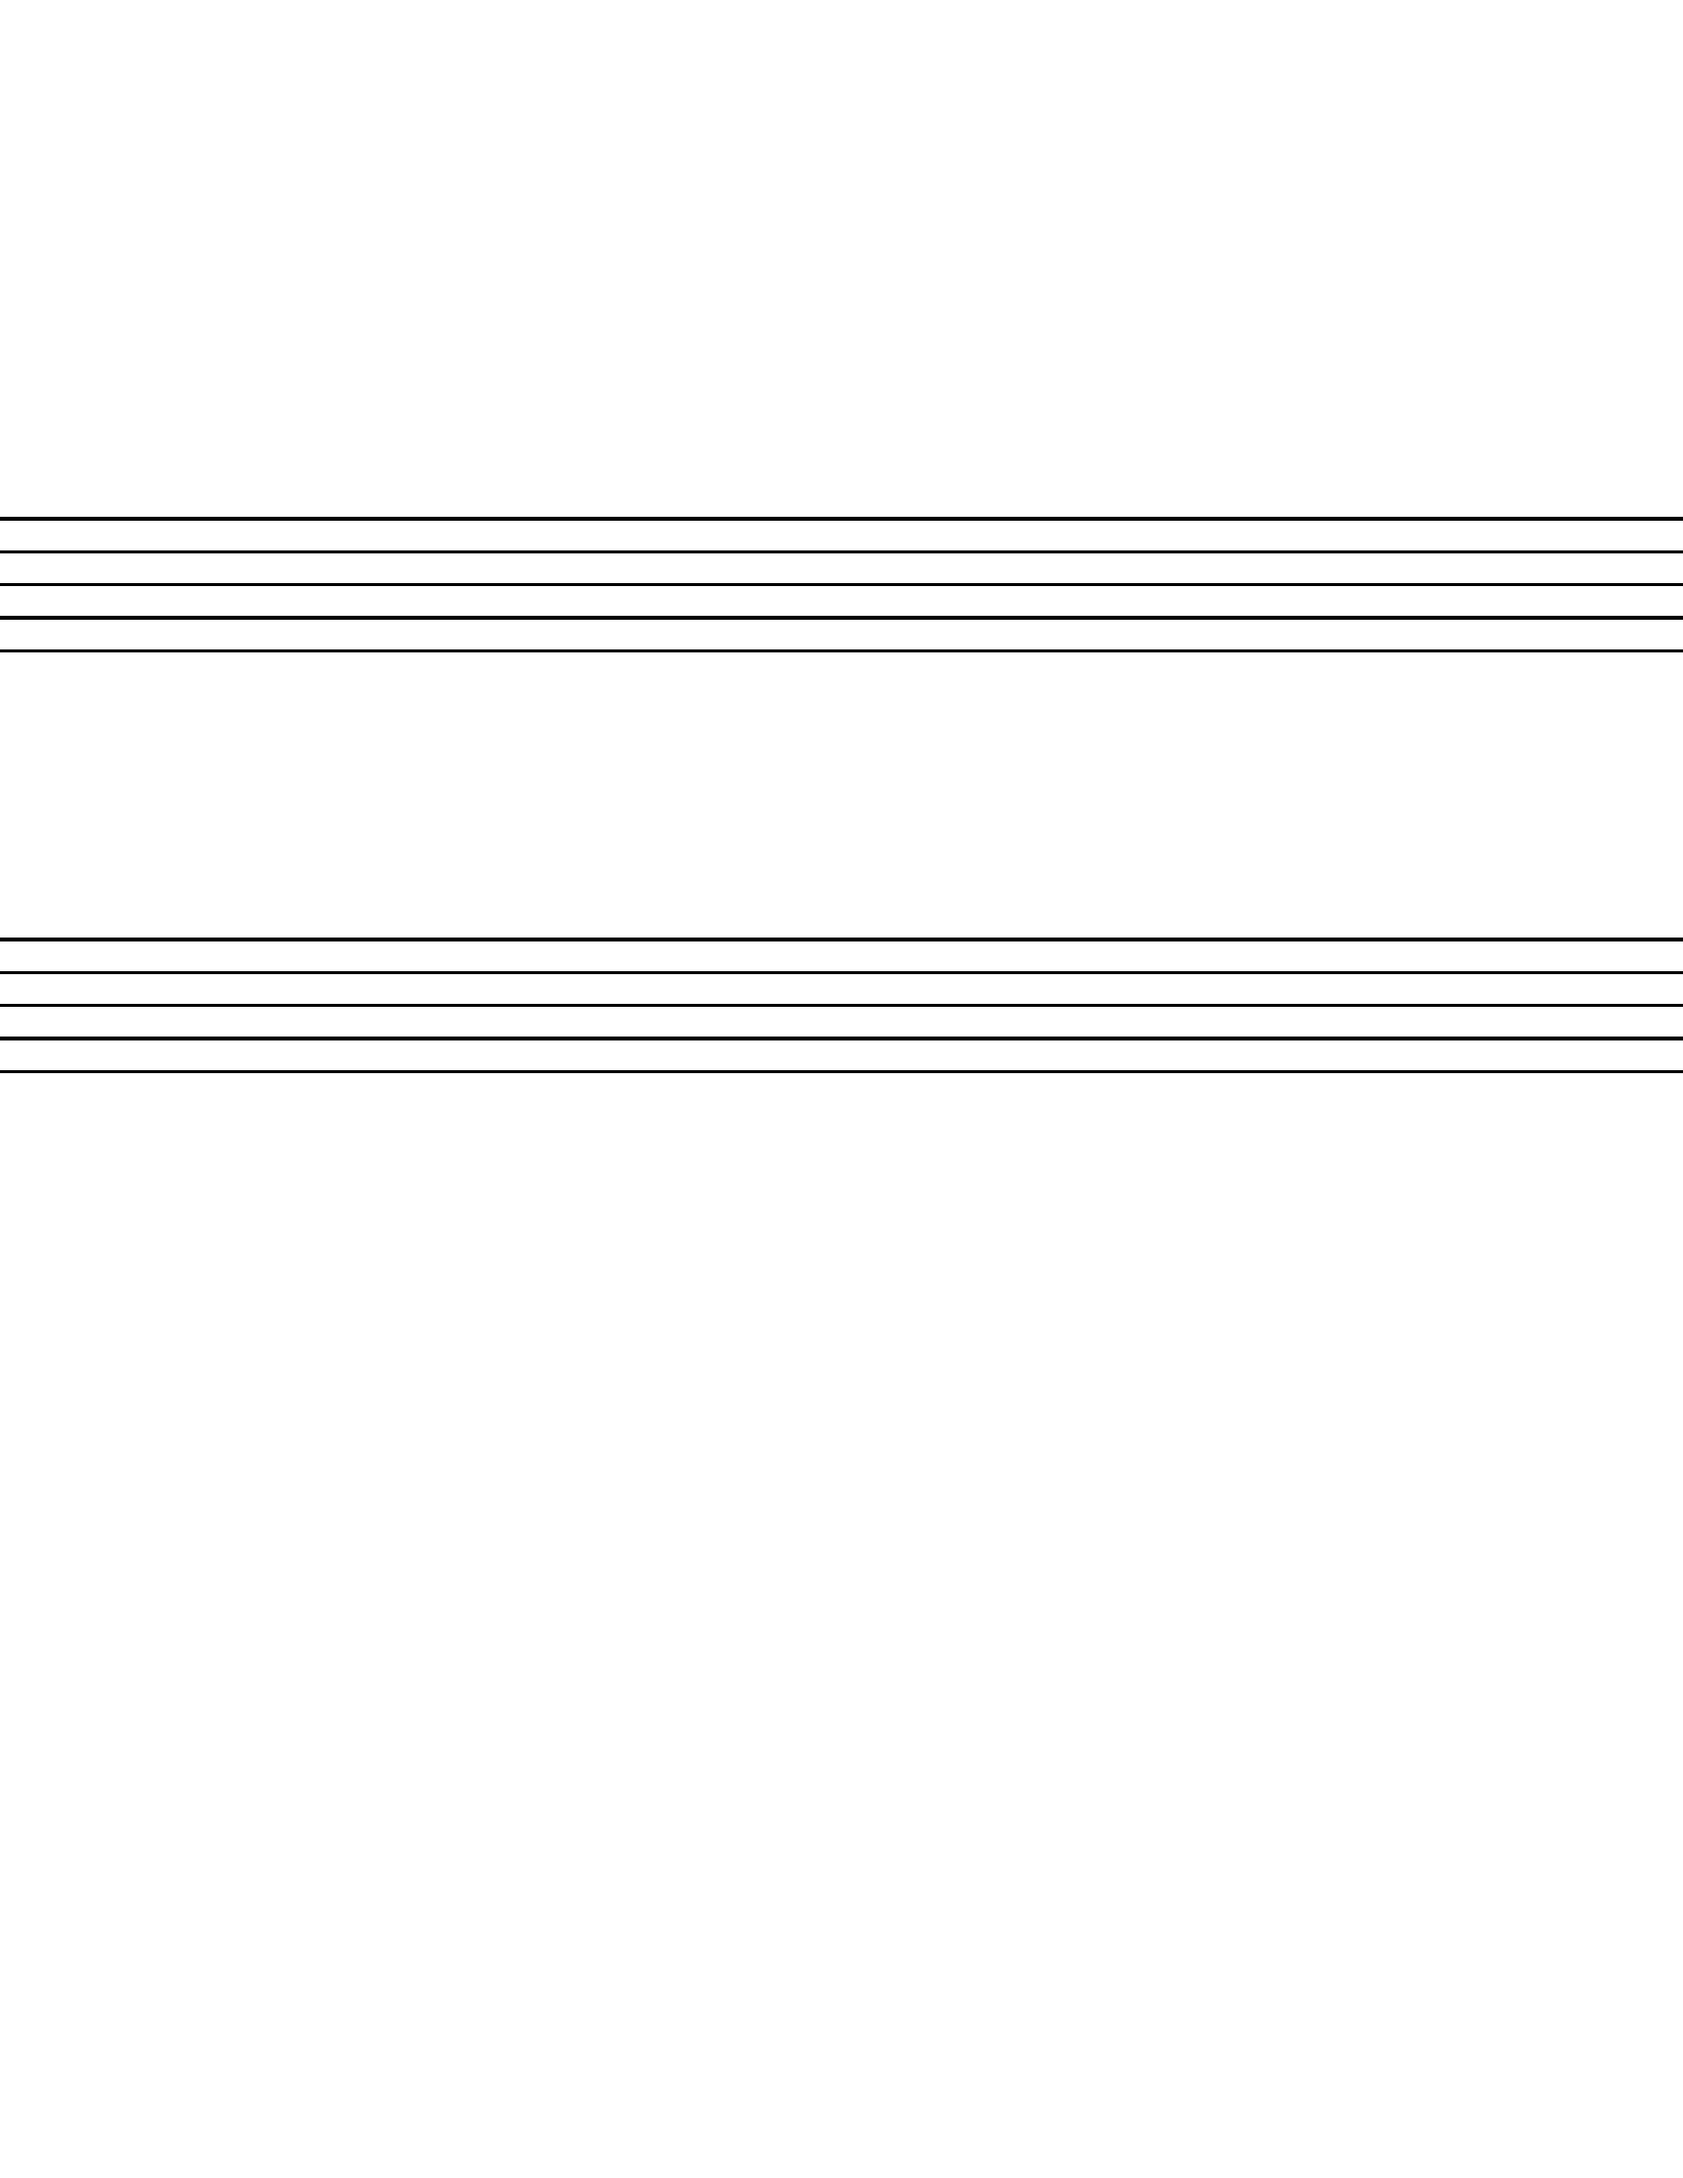
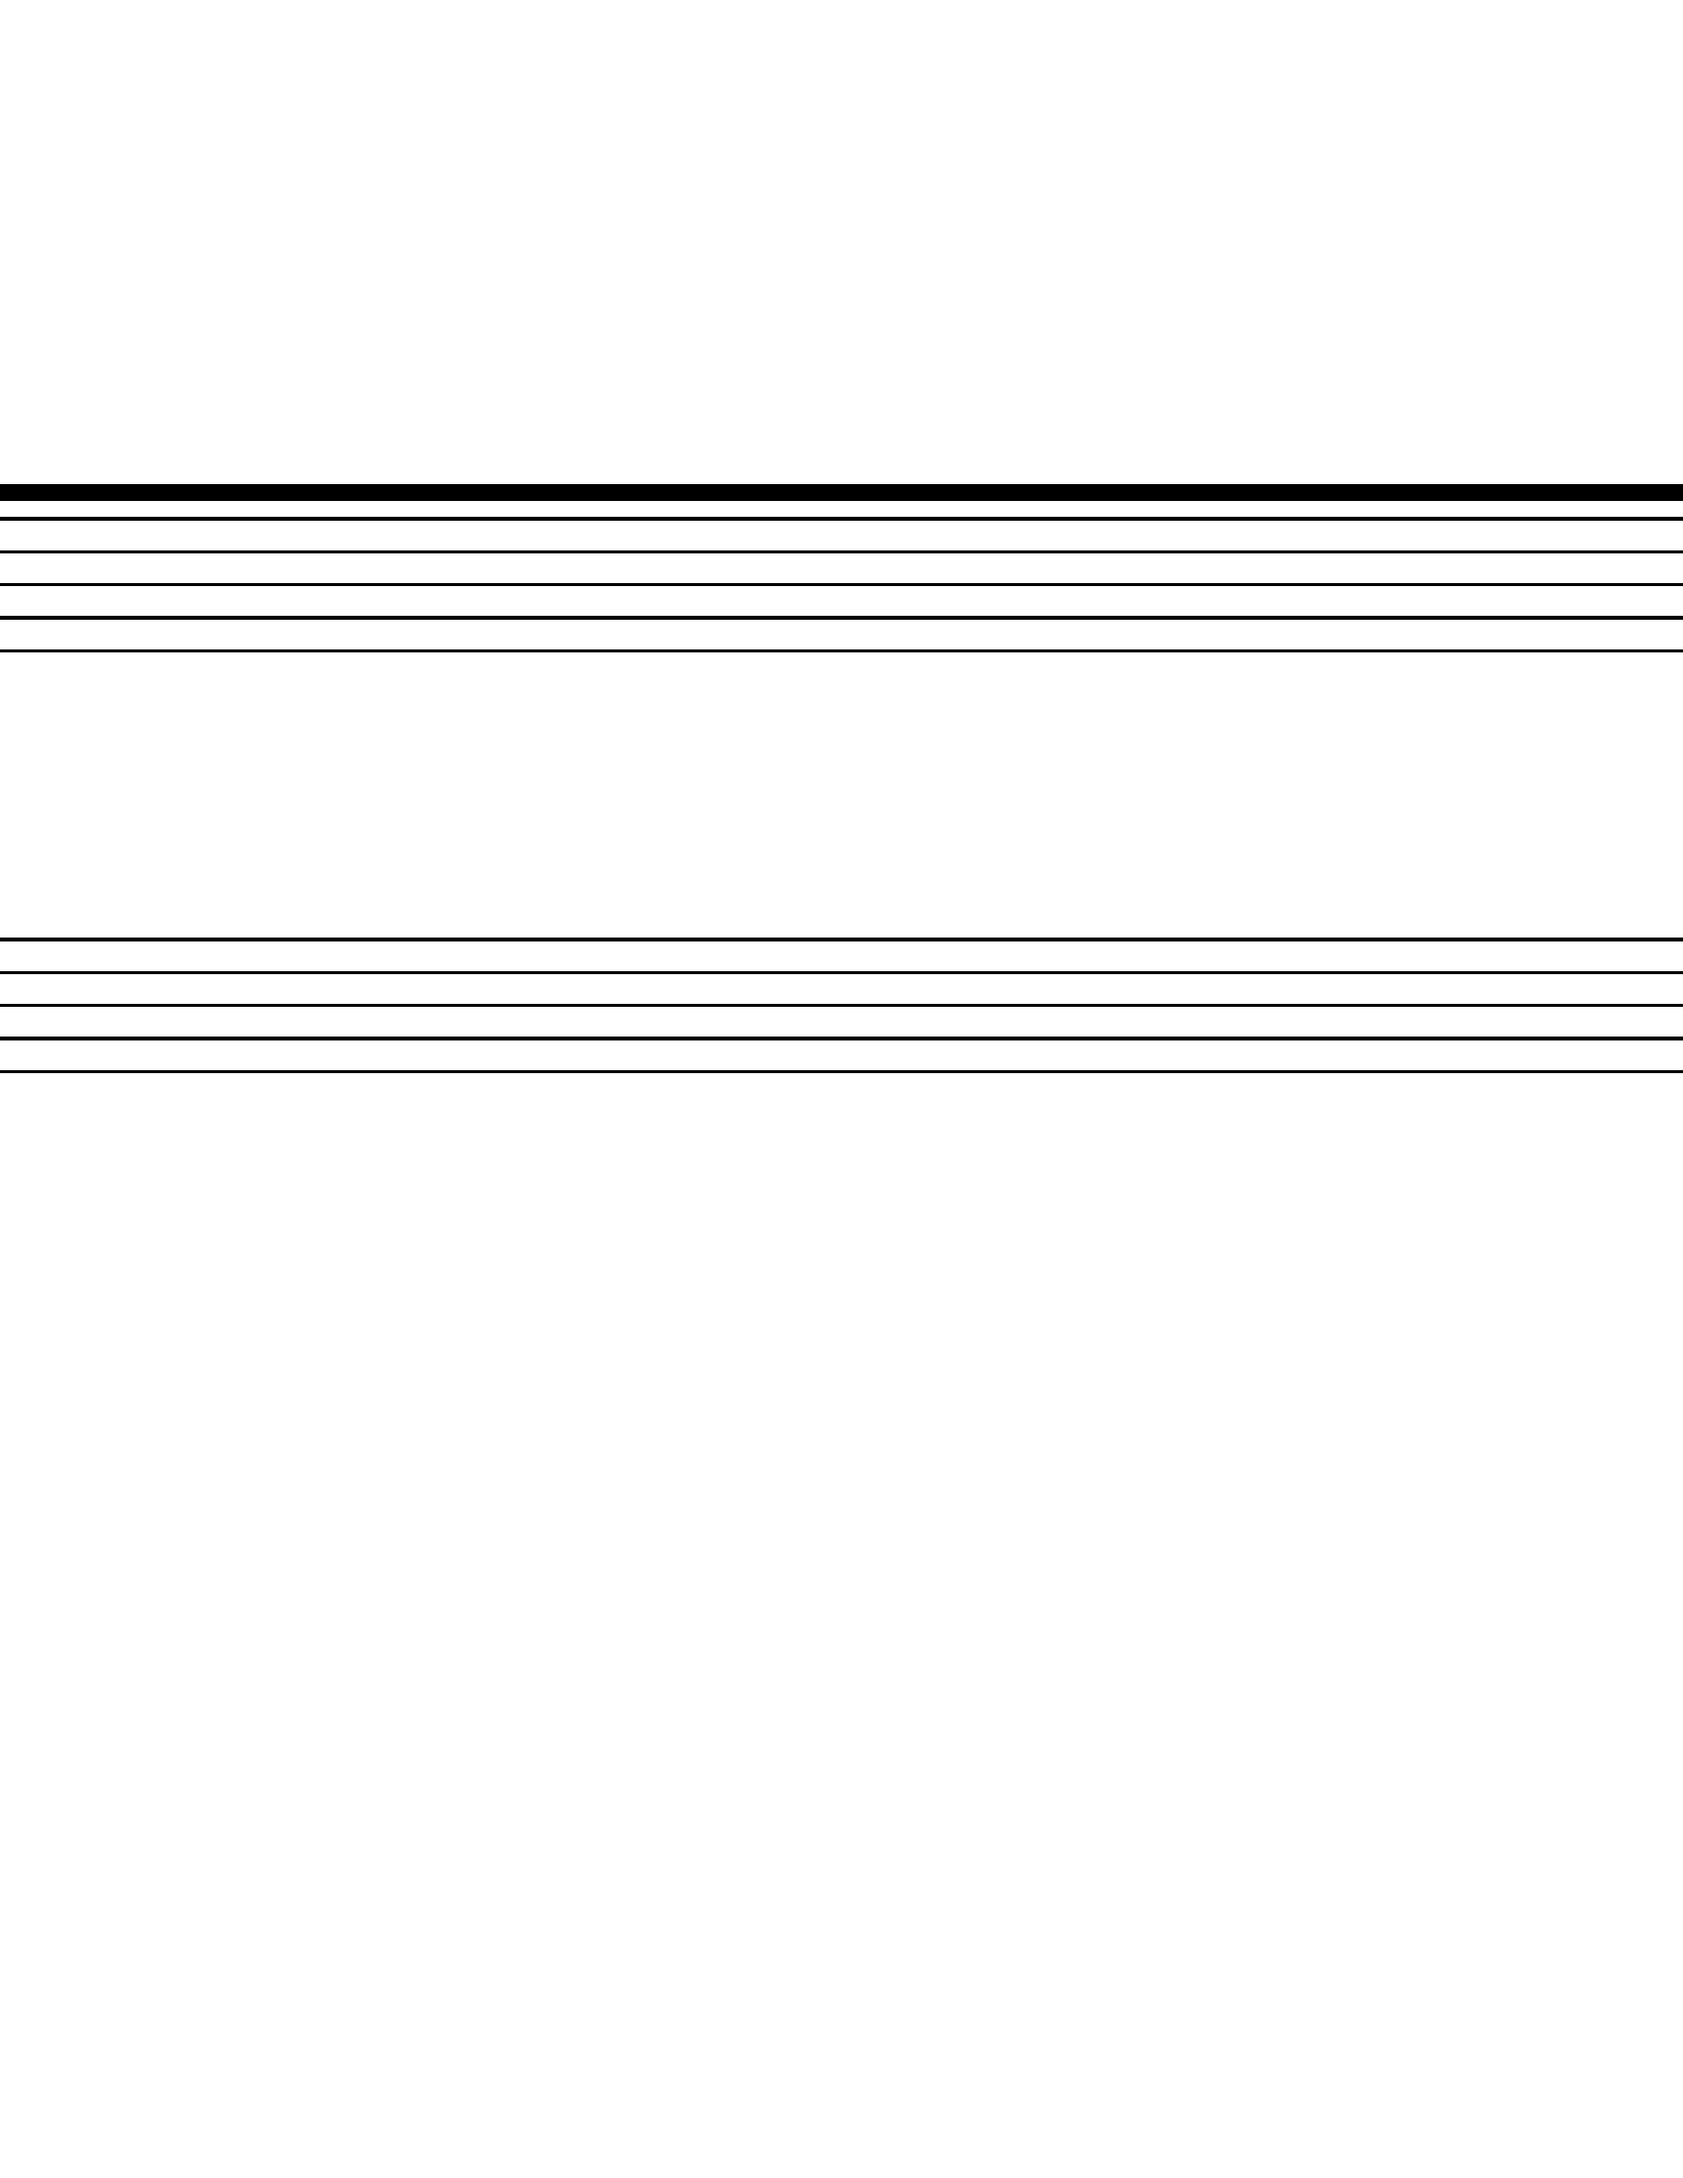
fix: Fix horizontal projection

Changed region(s): [[0.0, 0.2164, 1.0, 0.2473]]

diff --git a/src/stuff_region_segmentation.py b/src/stuff_region_segmentation.py
@@ -20,7 +20,11 @@ def binary_transform(image):
         binary_image (array): La imagen transformada binariamente.
     '''
     _, binary_image = cv2.threshold(image, BINARY_TRANFORM_THRESHOLD, 255, cv2.THRESH_BINARY)
-    return binary_image[:,:,1]
+    
+    if len(binary_image.shape) > 2:
+        return binary_image[:,:,0]
+    else:
+        return binary_image
 
 
 def horizontal_projection(image):
@@ -31,43 +35,58 @@ def horizontal_projection(image):
         image (array): Una matriz que representa la imagen de entrada en escala de grises.
 
     Salidas:
-        array: Un array que contiene el histograma de proyección horizontal.
+        horizontal_sum (array): Un vector que contiene el histograma de proyección horizontal.
+    '''
+    normalized_image = image/255
+    horizontal_sum = np.sum(normalized_image, axis=1)                                              # Calcula la suma horizontal de los píxeles en la imagen
+
+    return horizontal_sum
+
+def get_histogram_image(image, hist):
+    '''
+    Calcula la imagen del histograma de proyección horizontal de una imagen dada.
+
+    Parámetros:
+        image (array): Una matriz que representa la imagen de entrada en escala de grises.
+        hist (array): Un vector que representa el histograma de proyección horizontal.
+
+    Salidas:
+        horizontal_image (array): Una matriz que contiene la imagen del histograma de proyección horizontal.
     '''
     height, width = image.shape[:2]                                                     # Obtiene las dimensiones de la imagen
-    horizontal_sum = np.sum(image, axis=1)                                              # Calcula la suma horizontal de los píxeles en la imagen
-    max_value = np.max(horizontal_sum)                                                  # Encuentra el valor máximo de la suma horizontal
+    max_value = np.max(hist)                                                            # Encuentra el valor máximo de la suma horizontal
     
     if max_value == 0:                                                                  # Si la suma máxima es cero, devuelve una matriz de ceros con las mismas dimensiones que la imagen original
         return np.zeros((height, width), dtype=np.uint8)
 
-    horizontal_sum_normalized = (horizontal_sum / max_value) * (width - 1)              # Normaliza la suma horizontal
+    horizontal_sum_normalized = (hist / max_value) * (width - 1)                        # Normaliza la suma horizontal
     horizontal_image = np.zeros((height, width), dtype=np.uint8)                        # Crea una matriz de ceros con las mismas dimensiones que la imagen original
     
-    for y, value in enumerate(horizontal_sum_normalized):                              # Itera sobre la suma horizontal para dibujar las líneas de la proyección horizontal
+    for y, value in enumerate(horizontal_sum_normalized):                               # Itera sobre la suma horizontal para dibujar las líneas de la proyección horizontal
         if np.isscalar(value):
             value = int(value)
         else:
             value = int(value[0])
-        cv2.line(horizontal_image, (width - value - 1, y), (width, y), 255, 1)     # El -1 es para que no se dibuje una línea en la primera columna de la imagen
+        cv2.line(horizontal_image, (width - value - 1, y), (width, y), 255, 1)          # El -1 es para que no se dibuje una línea en la primera columna de la imagen
 
     return horizontal_image
 
-
-def region_segmentation(image):
+def region_segmentation(image, hist):
     '''
     Realiza la segmentación de regiones para detectar las líneas de las partituras en una imagen binaria.
 
     Parámetros:
         image (array): Una histograma de proyección horizontal.
+        hist (array): Un vector que representa el histograma de proyección horizontal.
 
     Salidas:
         staff_lines: Un array que contiene las líneas de las partituras sin notas ni otros símbolos.
     '''
-    threshold = round(image.shape[1] * REGION_SEGMENTATION_RATIO)       # Calcula el pixel umbral para la segmentación de regiones
-    staff_lines = np.zeros_like(image)                                  # Crea una matriz de ceros con las mismas dimensiones que la imagen original
-    
+    staff_lines = np.zeros_like(image)
+    threshold = int(np.max(hist)*REGION_SEGMENTATION_RATIO)
+
     for y in range(image.shape[0]):                                     # Itera sobre las filas de la imagen
-        if image[y, threshold] == 255:                                  # Si el píxel en la posición (threshold, y) es blanco, no dibujar linea
+        if hist[y] >= threshold:                                  # Si el píxel en la posición (threshold, y) es blanco, no dibujar linea
             staff_lines[y, :] = 255
         else:                                                           # Si el píxel en la posición (threshold, y) es negro, dibujar linea
             staff_lines[y, :] = 0

diff --git a/src/test.py b/src/test.py
@@ -16,10 +16,11 @@ def test_project(image_path):
     print('\nBinary image succesfully created and saved')
 
     horizontal_sum = stuff_region_segmentation.horizontal_projection(binary_image)
-    cv2.imwrite('testing/01_horizontal_projection_result.png', horizontal_sum)
+    hist_image = stuff_region_segmentation.get_histogram_image(binary_image, horizontal_sum)
+    cv2.imwrite('testing/01_horizontal_projection_result.png', hist_image)
     print('\nHorizontal sum succesfully created and saved')
 
-    staff_lines = stuff_region_segmentation.region_segmentation(horizontal_sum)
+    staff_lines = stuff_region_segmentation.region_segmentation(binary_image, horizontal_sum)
     cv2.imwrite('testing/02_region_segmentation_result.png', staff_lines)
     print('\nRegion segmentation succesfully created and saved')
 
